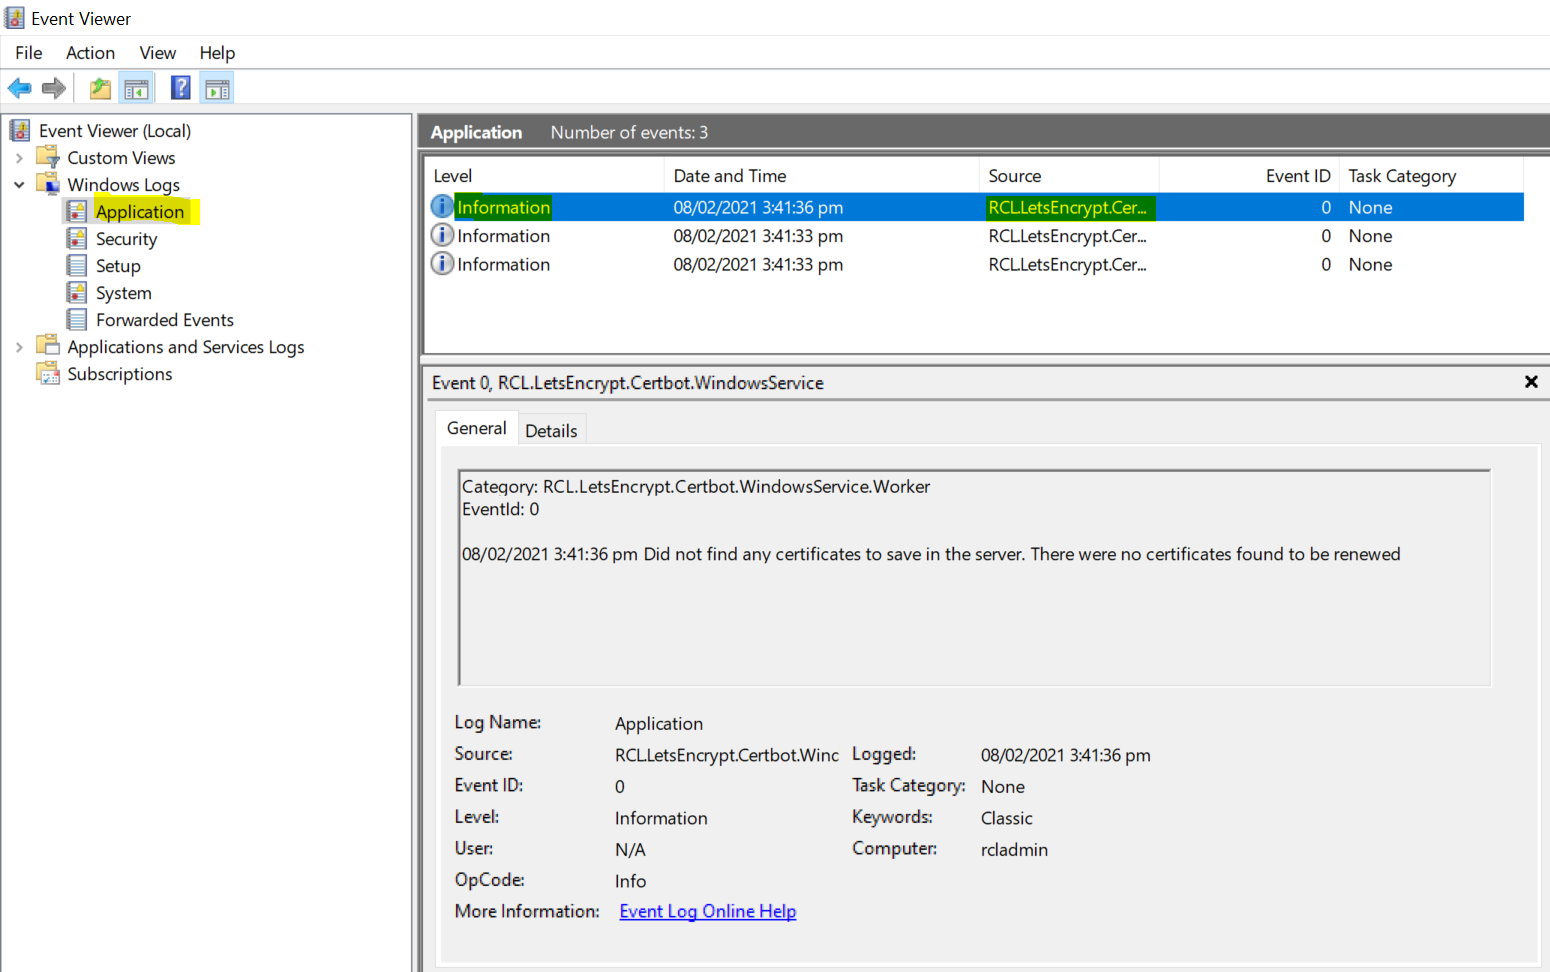
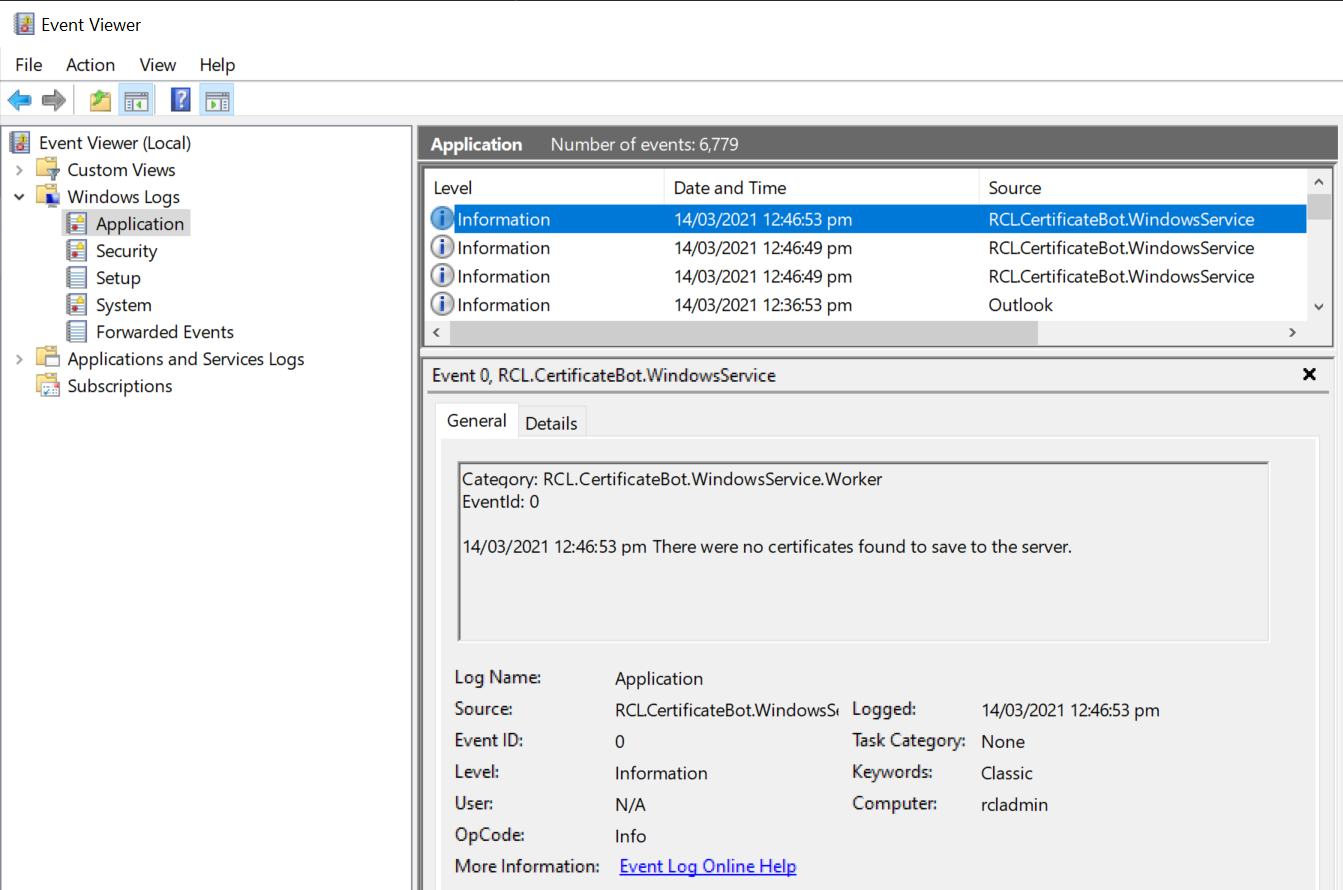
updated win certificate bot

Changed region(s): [[0.0, 0.0, 1.0, 1.0]]

diff --git a/certbot/windows-service.md b/certbot/windows-service.md
@@ -6,22 +6,23 @@ nav_order: 2
 
 # RCL CertificateBot for Windows
 
-RCL CertificateBot runs as a **Windows Service** in a Windows Server. The Windows Service will run every four (4) days to automatically renew and save TLS/SSL certificates from a user's subscription in the **RCL Portal**.
+RCL CertificateBot runs as a **Windows Service** in a Windows Server. The Windows Service will run every four (4) days to automatically renew and save SSL/TLS certificates from a user's subscription in the **RCL Portal**.
 
-## Automatically Renew TLS/SSL Certificates
+## Automatically Renew SSL/TLS Certificates
 
-You can use RCL CertificateBot to automatically renew TLS/SSL certificates created in the **RCL Portal** using the the following creation options :
+You can use RCL CertificateBot to automatically renew SSL/TLS certificates created in the **RCL Portal** using the the following creation options :
 
-- Azure DNS (including SAN) - Recommended
+- Azure DNS (including SAN) - **Recommended**
 - Azure Key Vault (including SAN)
 
 **'Stand Alone' certificates are not supported by RCL CertificateBot.**
 
+# Install RCL CertificateBot
 ## Download the Files
 
 - Download the Windows Service files from the GitHub Project page in the Releases section:
 
-- Click to : [Download RCL CertificateBot Files](https://github.com/rcl-letsencrypt-auto-ssl/RCL.LetsEncrypt.CertBot/releases)
+- [Download RCL CertificateBot Files](https://github.com/rcl-ssl/RCL.CertificateBot/releases/tag/V2.1)
 
 - Select the zip file with bitness (win-x86, win-x64, win-arm) to match your Windows server bitness
 
@@ -31,7 +32,7 @@ You can use RCL CertificateBot to automatically renew TLS/SSL certificates creat
 
 ### Register an AAD Application
 
-An Azure Active Directory (AAD) application must be registered to obtain permission to access a user's Azure resources and to make authorized requests to the [RCL API](../api/api). 
+An Azure Active Directory (AAD) application must be registered to obtain permission to access a user's Azure resources (eg: DNS Zone). 
 
 Please refer to the following link to register an AAD application:
 
@@ -39,7 +40,7 @@ Please refer to the following link to register an AAD application:
 
 ### Set Access Control for the AAD application
 
-Access control must be set for the AAD application to access resources in a user's Azure subscription. Please refer to the following link to set access control :
+Access control must be set for the AAD application to access resources in a user's Azure subscription (eg: DNS Zone). Please refer to the following link to set access control :
 
 - [Setting Access Control for the AAD Application](../authorization/access-control-app)
 
@@ -59,7 +60,7 @@ Please refer to the following link to get the AAD credentials to configure the s
   - client_secret
   - tenantId
 
-- In the **CertBot** section, set a folder path to save the TLS/SSL certificates. Create the folder in the server and set it with read/write permissions so that the certificates can be saved to it :
+- In the **CertificateBot** section, set a folder path to save the SSL/TLS certificates in the server. Create the folder in the server and set it with read/write permissions so that the certificates can be saved to it :
 
   - saveCertificatePath
 
@@ -75,8 +76,8 @@ Please refer to the following link to get the AAD credentials to configure the s
     "client_secret": "~irjhfyyr-6653gfghf",
     "tenantId": "47735-477635-46534"
   },
-  "CertBot": {
-    "saveCertificatePath": "c:/ssl/reclcertbot",
+  "CertificateBot": {
+    "saveCertificatePath": "c:/ssl",
     "includeCertificates": ["all"],
     "serverIdentifier": "default",
     "bindings": []
@@ -102,6 +103,8 @@ Please refer to the following link to get the AAD credentials to configure the s
 }
 ```
 
+- Save the **appsettings.json** file when you are done.
+
 # Create the Windows Service
 
 - Open a **Command Prompt** in the Windows server as an **Administrator**
@@ -109,10 +112,10 @@ Please refer to the following link to get the AAD credentials to configure the s
 - Run the command to install the Windows Service. Replace the < file-path > placeholder with the actual path where your windows service files were downloaded and extracted
 
 ```
-sc.exe create RCLCertBot binpath= <file-path>\RCL.LetsEncrypt.Certbot.WindowsService.exe
+sc.exe create CertificateBot binpath= <file-path>\RCL.CertificateBot.WindowsService.exe
 ```
 
-- After the service in installed, open **Windows Service** and Start the service
+- After the service in installed, open **Services** in the Windows server and **Start** the service
 
 ![image](../images/certbot/winservice-start.png)
 
@@ -122,13 +125,13 @@ sc.exe create RCLCertBot binpath= <file-path>\RCL.LetsEncrypt.Certbot.WindowsSer
 
 # View the Event Logs
 
-- Open **Event Viewer**, under 'Windows Logs > Application', look for the 'RCL.LetsEncrypt.Certbot.WindowsService' events
+- Open **Event Viewer**, under 'Windows Logs > Application', look for the 'RCL.CertificateBot.WindowsService' events
 
 ![image](../images/certbot/winservice-events.PNG)
 
 - Ensure that there are no error events for the service. If there are error events, the service is misconfigured and will not function
 
-- Additional logs can be found at the location : < saveCertificatePath > / log.txt, where 'saveCertificatePath' is the path that you configured in 'appsettings' to save the TLS/SSL certificates
+- Additional logs can be found at the location : < saveCertificatePath > / log.txt, where 'saveCertificatePath' is the path that you configured in 'appsettings' to save the SSL/TLS certificates
 
 - Each time a certificates is downloaded and saved in the server or a certificate is scheduled for renewal, a log will be written
 
@@ -137,7 +140,7 @@ sc.exe create RCLCertBot binpath= <file-path>\RCL.LetsEncrypt.Certbot.WindowsSer
 Run the command to delete the service
 
 ```
-sc.exe delete RCLCertBot  
+sc.exe delete CertificateBot  
 ```
 
 # Fixing Errors
@@ -150,8 +153,8 @@ RCL CertificateBot will save renewed TLS/SSL certificate files to a folder in th
 
 Please follow the links below to configure your web server:
 
-- [Installing TLS/SSL Certificates in Apache Server](../installations/apache)
-- [Installing TLS/SSL Certificates in Apache Tomcat](../installations/apache-tomcat)
-- [Installing TLS/SSL Certificates in NGINX](../installations/nginx)
-- [Installing TLS/SSL Certificates in IIS](./iis)
+- [Installing SSL/TLS Certificates in Apache Server](../installations/apache)
+- [Installing SSL/TLS Certificates in Apache Tomcat](../installations/apache-tomcat)
+- [Installing SSL/TLS Certificates in NGINX](../installations/nginx)
+
 

diff --git a/authorization/access-control-app.md b/authorization/access-control-app.md
@@ -30,7 +30,7 @@ A user will need to provide **Access Control** to the [AAD Application](./aad-ap
 
 ## Access Policies for Key Vault
 
-If a user is creating TLS/SSL certificates for **Azure Key Vault**, they will need to set **Access policies** for the certificate in Key Vault
+If a user is creating SSL/TLS certificates for **Azure Key Vault**, they will need to set **Access policies** for the certificate in Key Vault
 
 - In Key Vault, click on 'Access policies' and 'Add Access Policy'
 
@@ -57,11 +57,4 @@ If a user is creating TLS/SSL certificates for **Azure Key Vault**, they will ne
 - The newly added access policy will be displayed
 
 ![install](../images/authorization_access_control/key_vault6.PNG)
-
-## Related Articles
-
-- [Register an AAD Application](./aad-application.md)
-- [Configuring AutoRenew Function](../autorenew/configure.md)
-- [API Authorization](../api/authorization)
-- [SDK Configuration](../sdk/sdk)
 

diff --git a/certbot/certbot.md b/certbot/certbot.md
@@ -9,4 +9,4 @@ nav_order: 8
 RCL CertificateBot can be run as a Windows Service or a Linux Daemon. It is installed in the server running a website. It provides the following functionality :
 
 - automatically send requests to renew certificates created in the RCL Portal
-- save certificates in the server for a web server to use 
+- save SSL/TLS certificates in the server for a web server to use 

diff --git a/certbot/introduction.md b/certbot/introduction.md
@@ -6,7 +6,7 @@ nav_order: 1
 
 # Introduction
 
-RCL CertificateBot is installed in a server running a website. It allows for automatic renewal of certificates and installation of certificates in the server.
+RCL CertificateBot is installed in a server running a website. It allows for automatic renewal of SSL/TLS certificates and installation of certificates in the server.
 
 ## Windows Server
 

diff --git a/authorization/aad-application.md b/authorization/aad-application.md
@@ -47,9 +47,3 @@ nav_order: 4
 ## Next Step
 
 - [Set Access Control for the AAD application](./access-control-app)
-
-## Related Articles
-
-- [Configuring AutoRenew Function](../autorenew/configure)
-- [API Authorization](../api/authorization)
-- [SDK Configuration](../sdk/sdk)

diff --git a/certbot/linux-daemon.md b/certbot/linux-daemon.md
@@ -1,6 +1,6 @@
 ---
 title: Linux Daemon
-parent: Certificate Bot
+parent: CertificateBot
 nav_order: 3
 ---
 
